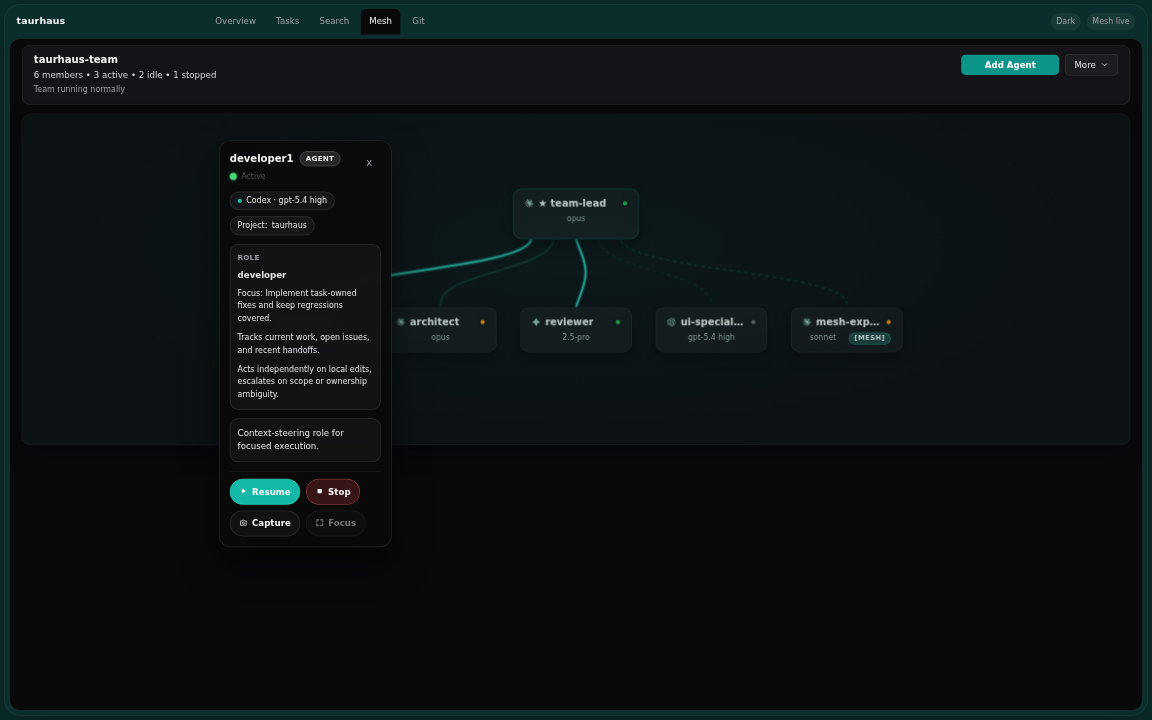
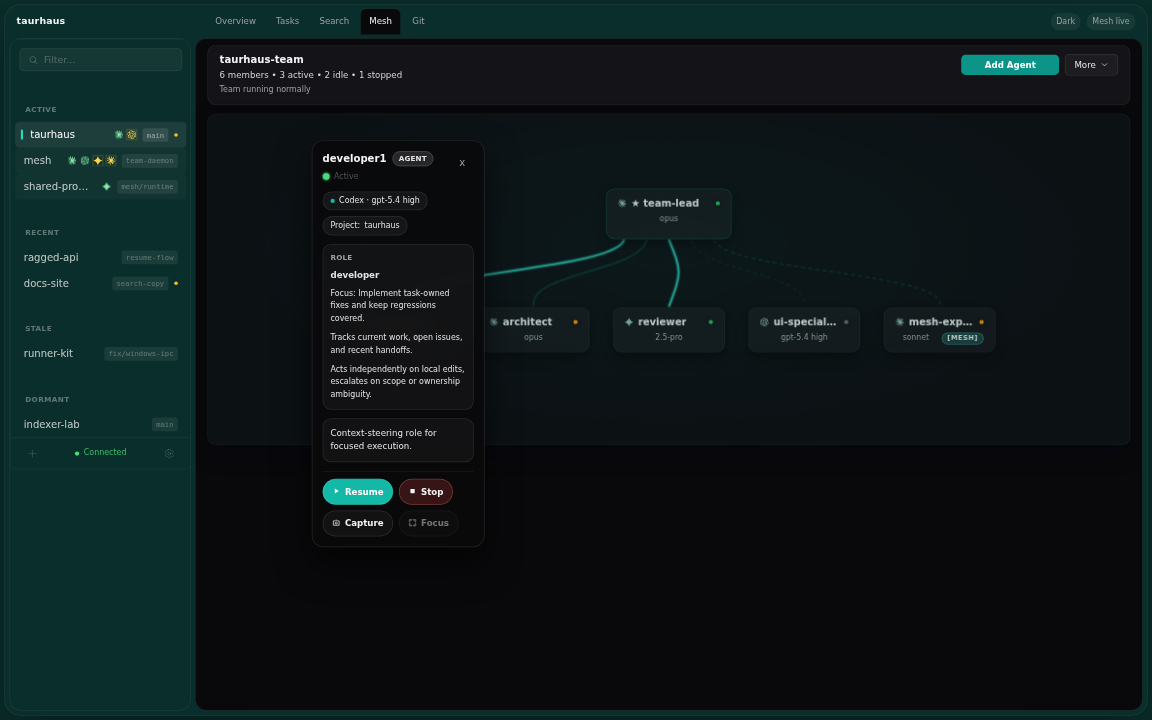
Render README screenshots in full app shell

Changed region(s): [[0.0, 0.0306, 0.875, 1.0], [0.2188, 0.275, 0.375, 0.3361], [0.4688, 0.275, 0.625, 0.3056]]

diff --git a/src/test/visual/specs/ReadmeScreenshotsHost.svelte b/src/test/visual/specs/ReadmeScreenshotsHost.svelte
@@ -103,94 +103,86 @@
       </div>
     </header>
 
-    {#if scenario.layout === 'window'}
-      <div class="flex min-h-0 flex-1 gap-1.5 px-1.5 pb-1.5">
-        <aside class="w-[252px] shrink-0 overflow-hidden rounded-2xl bg-brand-950 border border-white/8">
-          <Sidebar
-            {dark}
-            projects={projects}
-            selectedProject={selectedProject}
-            daemonStatus="connected"
-            actions={shellActions}
-          />
-        </aside>
+    <div class="flex min-h-0 flex-1 gap-1.5 px-1.5 pb-1.5">
+      <aside class="w-[252px] shrink-0 overflow-hidden rounded-2xl bg-brand-950 border border-white/8">
+        <Sidebar
+          {dark}
+          projects={projects}
+          selectedProject={selectedProject}
+          daemonStatus="connected"
+          actions={shellActions}
+        />
+      </aside>
 
-        <main data-testid="readme-main-panel" class={`min-w-0 flex-1 overflow-hidden rounded-2xl border border-white/8 ${t.mainBg}`}>
-          {#if scenario.mode === 'overview' || scenario.mode === 'search'}
-            <OverviewTab
-              {dark}
-              {codeTheme}
-              data={fixtureData.overviewData}
-              actions={overviewActions}
-            />
-          {/if}
-        </main>
-      </div>
-    {:else}
-      <div class="min-h-0 flex-1 px-1.5 pb-1.5">
-        <main data-testid="readme-main-panel" class={`h-full overflow-hidden rounded-2xl border border-white/8 ${t.mainBg}`}>
-          {#if scenario.mode === 'tasks'}
-            <TaskBoard
-              {dark}
-              {codeTheme}
-              projectId={selectedProject.id}
-              projectPath={selectedProject.path}
-              isActive={true}
-            />
-          {:else if scenario.mode === 'mesh-setup'}
-            <MeshSetupView
-              mode="setup"
-              {dark}
-              projectPath={selectedProject.path}
-              teamConfig={fixtureData.mesh.setupTeam}
-              selectedNode={fixtureData.mesh.selectedSetupNode}
-              selectedNodeId={fixtureData.mesh.selectedSetupNode.id}
-              teamName={fixtureData.mesh.teamName}
-              canInitialize={true}
-              availableProjects={fixtureData.availableProjects}
-              slideOver="customizer"
-              slideOverContext={null}
-            />
-          {:else if scenario.mode === 'mesh-runtime'}
-            <MeshRuntimeView
-              {dark}
-              teamName={fixtureData.mesh.teamName}
-              teamConfig={fixtureData.mesh.runtimeTeam}
-              selectedNode={fixtureData.mesh.selectedRuntimeNode}
-              selectedNodeId={fixtureData.mesh.selectedRuntimeNode.id}
-              teamRuntimeState="active"
-              availableProjects={fixtureData.availableProjects}
-              roleTemplates={[]}
-              addAgentOpen={false}
-              addAgentDraft={addAgentDraft}
-              canSubmitAddAgent={true}
-            />
-          {:else if scenario.mode === 'mesh-recovery'}
-            <MeshRuntimeView
-              {dark}
-              teamName={fixtureData.mesh.teamName}
-              teamConfig={fixtureData.mesh.runtimeTeam}
-              selectedNode={null}
-              selectedNodeId={null}
-              teamRuntimeState="cold_resume"
-              isResumingTeam={false}
-              resumeProgress={runtimeResumeProgress}
-              availableProjects={fixtureData.availableProjects}
-              roleTemplates={[]}
-              addAgentOpen={false}
-              addAgentDraft={addAgentDraft}
-              canSubmitAddAgent={true}
-            />
-          {:else if scenario.mode === 'git'}
-            <GitTab
-              {dark}
-              projectPath={selectedProject.path}
-              projectId={selectedProject.id}
-            />
-          {/if}
-        </main>
-      </div>
-    {/if}
+      <main data-testid="readme-main-panel" class={`min-w-0 flex-1 overflow-hidden rounded-2xl border border-white/8 ${t.mainBg}`}>
+        {#if scenario.mode === 'overview' || scenario.mode === 'search'}
+          <OverviewTab
+            {dark}
+            {codeTheme}
+            data={fixtureData.overviewData}
+            actions={overviewActions}
+          />
+        {:else if scenario.mode === 'tasks'}
+          <TaskBoard
+            {dark}
+            {codeTheme}
+            projectId={selectedProject.id}
+            projectPath={selectedProject.path}
+            isActive={true}
+          />
+        {:else if scenario.mode === 'mesh-setup'}
+          <MeshSetupView
+            mode="setup"
+            {dark}
+            projectPath={selectedProject.path}
+            teamConfig={fixtureData.mesh.setupTeam}
+            selectedNode={fixtureData.mesh.selectedSetupNode}
+            selectedNodeId={fixtureData.mesh.selectedSetupNode.id}
+            teamName={fixtureData.mesh.teamName}
+            canInitialize={true}
+            availableProjects={fixtureData.availableProjects}
+            slideOver="customizer"
+            slideOverContext={null}
+          />
+        {:else if scenario.mode === 'mesh-runtime'}
+          <MeshRuntimeView
+            {dark}
+            teamName={fixtureData.mesh.teamName}
+            teamConfig={fixtureData.mesh.runtimeTeam}
+            selectedNode={fixtureData.mesh.selectedRuntimeNode}
+            selectedNodeId={fixtureData.mesh.selectedRuntimeNode.id}
+            teamRuntimeState="active"
+            availableProjects={fixtureData.availableProjects}
+            roleTemplates={[]}
+            addAgentOpen={false}
+            addAgentDraft={addAgentDraft}
+            canSubmitAddAgent={true}
+          />
+        {:else if scenario.mode === 'mesh-recovery'}
+          <MeshRuntimeView
+            {dark}
+            teamName={fixtureData.mesh.teamName}
+            teamConfig={fixtureData.mesh.runtimeTeam}
+            selectedNode={null}
+            selectedNodeId={null}
+            teamRuntimeState="cold_resume"
+            isResumingTeam={false}
+            resumeProgress={runtimeResumeProgress}
+            availableProjects={fixtureData.availableProjects}
+            roleTemplates={[]}
+            addAgentOpen={false}
+            addAgentDraft={addAgentDraft}
+            canSubmitAddAgent={true}
+          />
+        {:else if scenario.mode === 'git'}
+          <GitTab
+            {dark}
+            projectPath={selectedProject.path}
+            projectId={selectedProject.id}
+          />
+        {/if}
+      </main>
+    </div>
 
     {#if scenario.mode === 'search'}
       <SearchOverlay

diff --git a/src/test/visual/fixtures/readmeScreenshots.fixtures.js b/src/test/visual/fixtures/readmeScreenshots.fixtures.js
@@ -496,7 +496,7 @@ export const readmeScreenshotScenarios = [
     name: 'task-board-context',
     fileName: 'readme-task-board-context.png',
     mode: 'tasks',
-    layout: 'panel',
+    layout: 'window',
     theme: 'dark',
     viewport: { width: 1400, height: 900 },
   },
@@ -513,7 +513,7 @@ export const readmeScreenshotScenarios = [
     name: 'mesh-setup-composition',
     fileName: 'readme-mesh-setup-composition.png',
     mode: 'mesh-setup',
-    layout: 'panel',
+    layout: 'window',
     theme: 'dark',
     viewport: { width: 1400, height: 900 },
   },
@@ -521,7 +521,7 @@ export const readmeScreenshotScenarios = [
     name: 'mesh-runtime-canvas',
     fileName: 'readme-mesh-runtime-canvas.png',
     mode: 'mesh-runtime',
-    layout: 'panel',
+    layout: 'window',
     theme: 'dark',
     viewport: { width: 1600, height: 1000 },
   },
@@ -529,7 +529,7 @@ export const readmeScreenshotScenarios = [
     name: 'mesh-recovery-resume',
     fileName: 'readme-mesh-recovery-resume.png',
     mode: 'mesh-recovery',
-    layout: 'panel',
+    layout: 'window',
     theme: 'dark',
     viewport: { width: 1400, height: 900 },
   },
@@ -537,7 +537,7 @@ export const readmeScreenshotScenarios = [
     name: 'git-context-inspection',
     fileName: 'readme-git-context-inspection.png',
     mode: 'git',
-    layout: 'panel',
+    layout: 'window',
     theme: 'dark',
     viewport: { width: 1400, height: 900 },
   },
